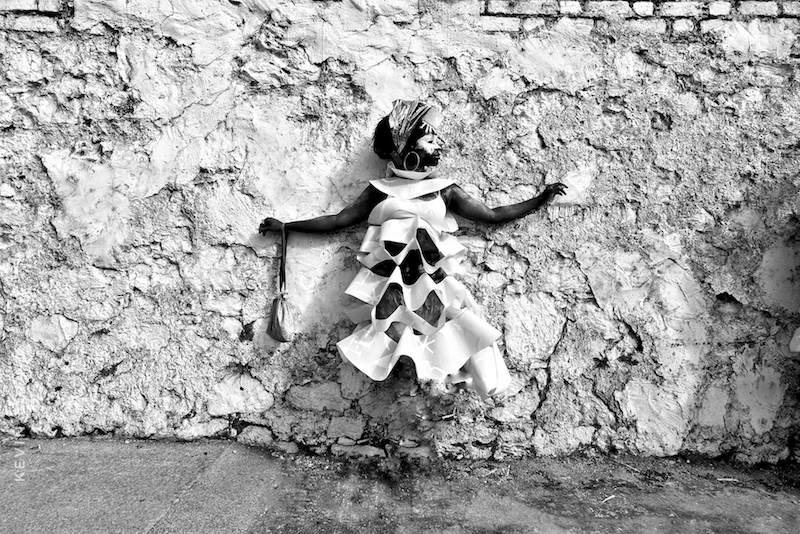
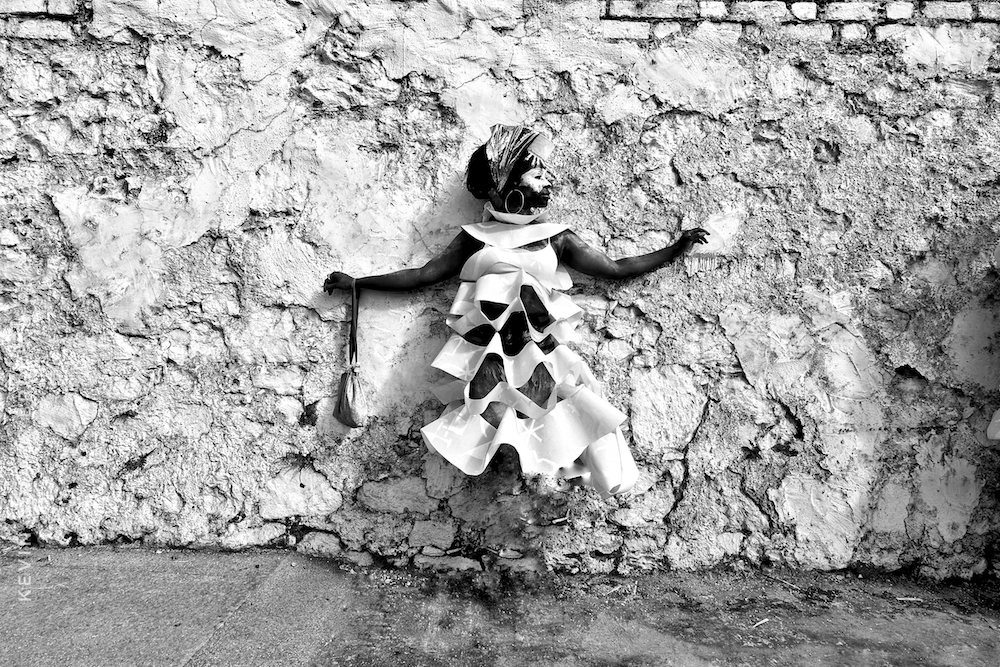
replaced image on header for smaller

Changed region(s): [[0.5, 0.4494, 0.5312, 0.4794], [0.5, 0.2097, 0.5312, 0.2397]]

diff --git a/_site/travel.html b/_site/travel.html
@@ -11,8 +11,8 @@
 ">
 
   <link rel="stylesheet" href="/2018/css/main.css">
-  <link rel="canonical" href="/2018/travel.html">
-  <link rel="alternate" type="application/rss+xml" title="#sxcd2018" href="/2018/feed.xml">
+  <link rel="canonical" href="http://localhost:4000/2018/travel.html">
+  <link rel="alternate" type="application/rss+xml" title="#sxcd2018" href="http://localhost:4000/2018/feed.xml">
 </head>
 
 

diff --git a/_site/team.html b/_site/team.html
@@ -11,8 +11,8 @@
 ">
 
   <link rel="stylesheet" href="/2018/css/main.css">
-  <link rel="canonical" href="/2018/team.html">
-  <link rel="alternate" type="application/rss+xml" title="#sxcd2018" href="/2018/feed.xml">
+  <link rel="canonical" href="http://localhost:4000/2018/team.html">
+  <link rel="alternate" type="application/rss+xml" title="#sxcd2018" href="http://localhost:4000/2018/feed.xml">
 </head>
 
 

diff --git a/_site/index.html b/_site/index.html
@@ -11,8 +11,8 @@
 ">
 
   <link rel="stylesheet" href="/2018/css/main.css">
-  <link rel="canonical" href="/2018/">
-  <link rel="alternate" type="application/rss+xml" title="#sxcd2018" href="/2018/feed.xml">
+  <link rel="canonical" href="http://localhost:4000/2018/">
+  <link rel="alternate" type="application/rss+xml" title="#sxcd2018" href="http://localhost:4000/2018/feed.xml">
 </head>
 
 

diff --git a/_site/css/main.css b/_site/css/main.css
@@ -57,7 +57,7 @@ p {
 /* SITE HEADER */
 /* Banner Image */
 header #fixed-banner {
-  background: url("http://caribbeandigitalnyc.net/banner.jpeg") no-repeat top center fixed;
+  background: url("http://caribbeandigitalnyc.net/2018/images/banner.jpeg") no-repeat top center fixed;
   background-size: cover;
   height: 500px;
   width: 100%; }

diff --git a/_sass/_tcd.scss b/_sass/_tcd.scss
@@ -72,7 +72,7 @@ p, ul {
 /* Banner Image */
 
 header #fixed-banner {
-    background: url("http://caribbeandigitalnyc.net/banner.jpeg") no-repeat top center fixed;
+    background: url("http://caribbeandigitalnyc.net/2018/images/banner.jpeg") no-repeat top center fixed;
     background-size: cover;
     height: 500px;
     width: 100%;
